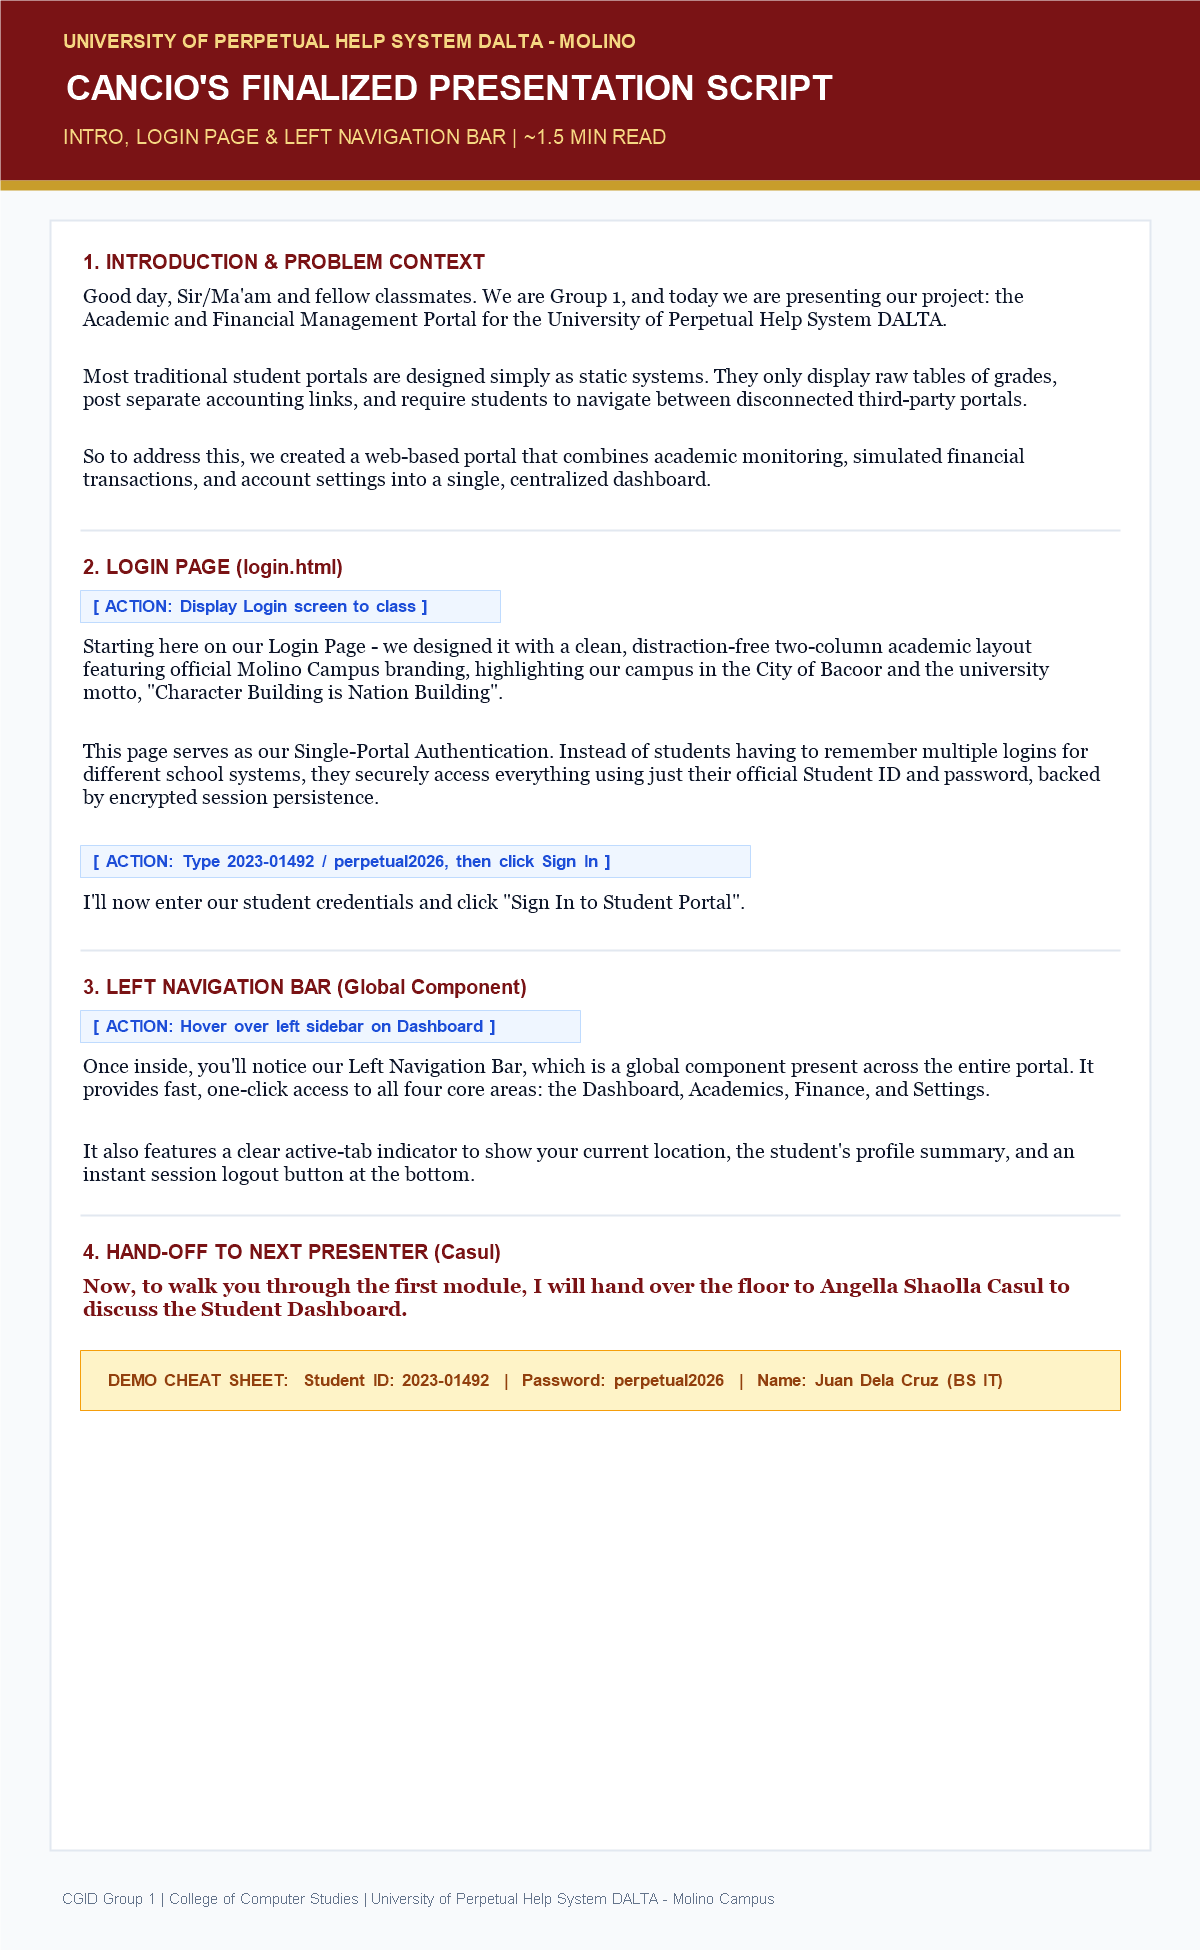
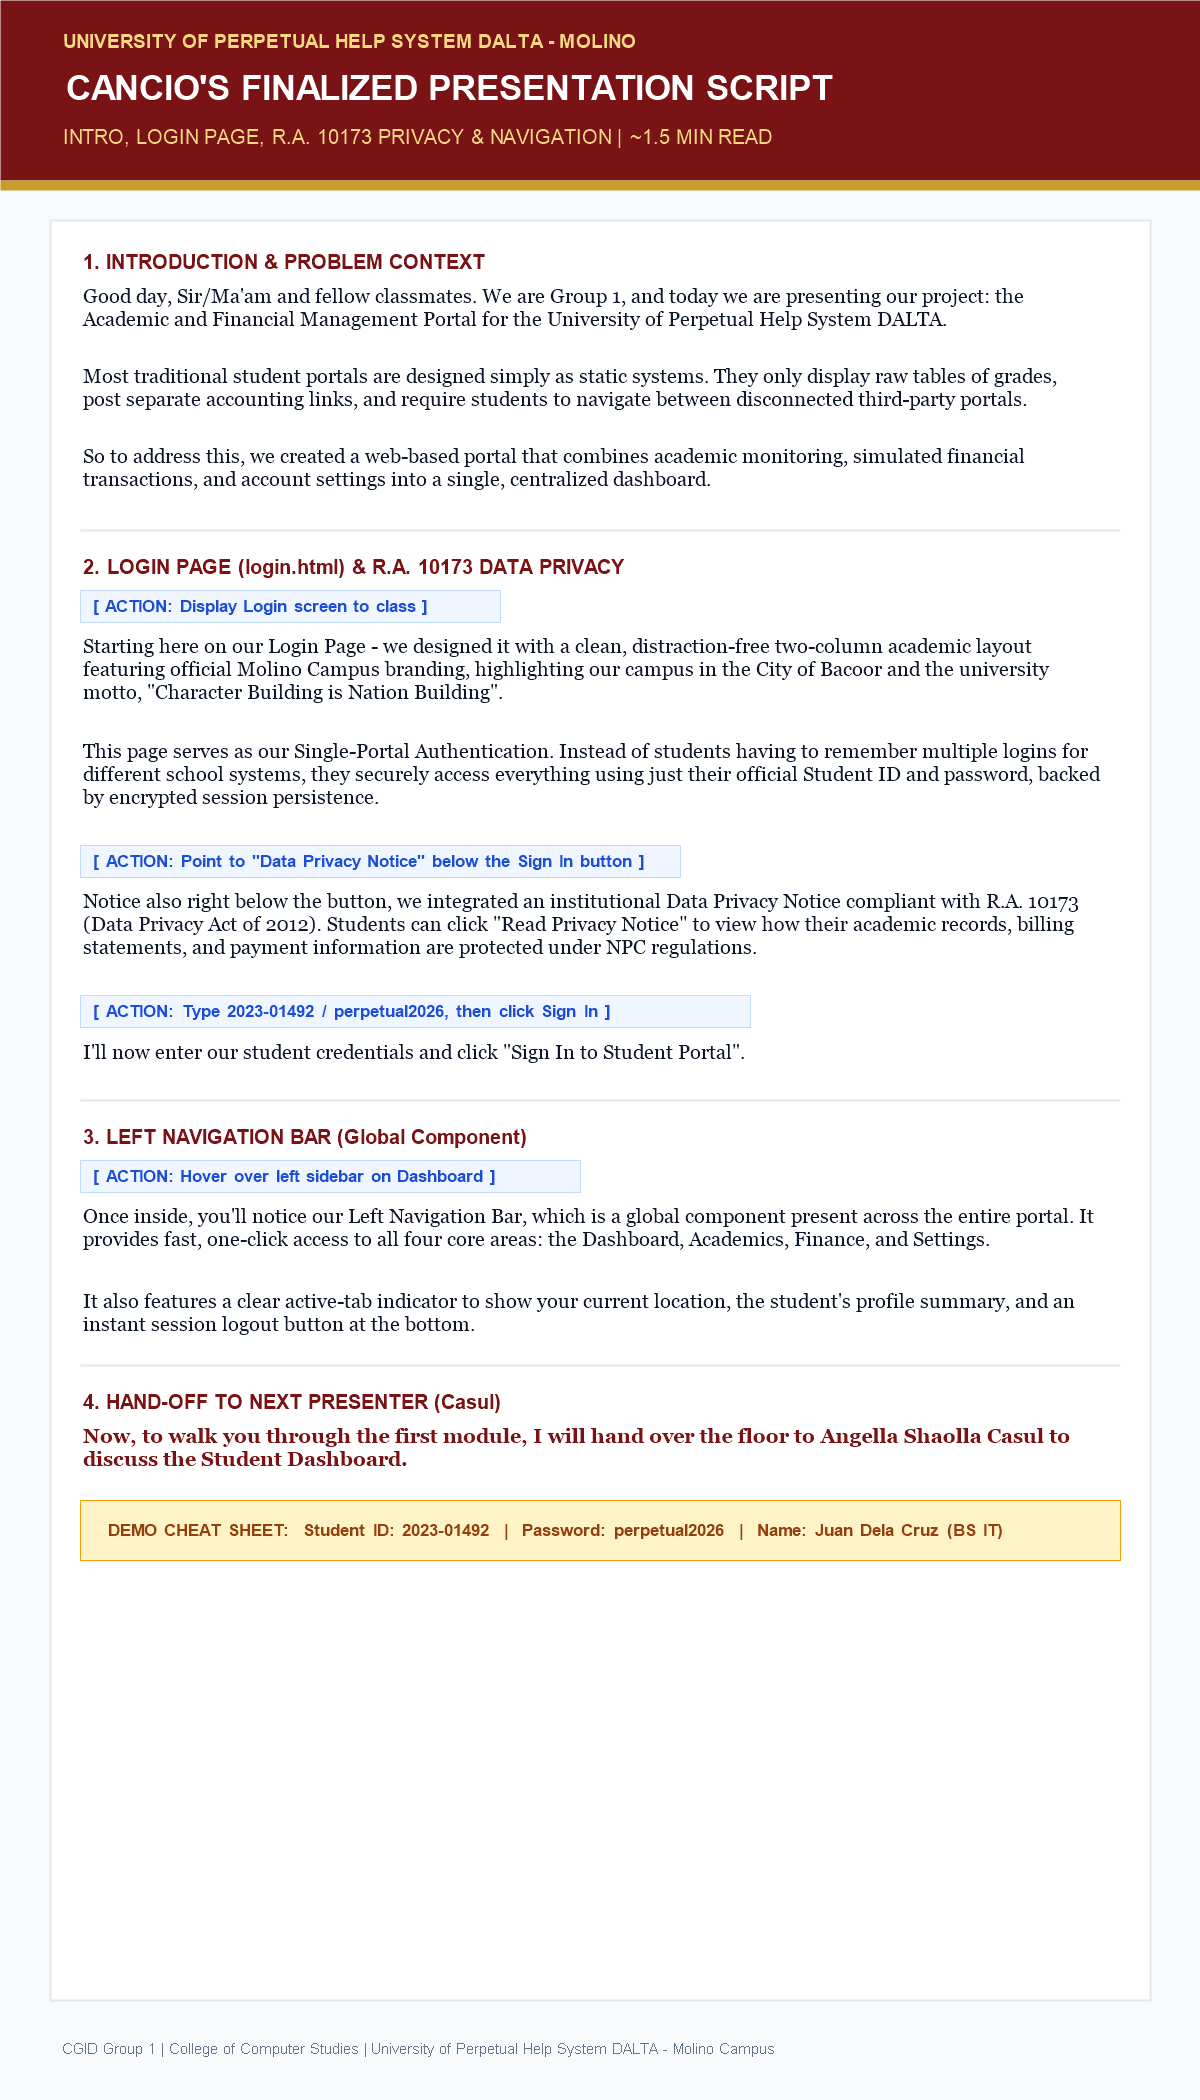
Add Data Privacy Notice (R.A. 10173) to login page and update Cancio cue card image

Changed region(s): [[0.0, 0.0, 1.0, 0.7692], [0.8633, 0.6154, 0.8942, 0.6462]]

diff --git a/login.html b/login.html
@@ -110,6 +110,14 @@
             <span id="btn-submit-text">Sign In to Student Portal →</span>
             <div class="btn-login-spinner" id="btn-submit-spinner"></div>
           </button>
+
+          <!-- Data Privacy Notice (R.A. 10173 Compliance) -->
+          <div class="login-privacy-notice">
+            <svg viewBox="0 0 24 24" width="14" height="14" stroke="currentColor" stroke-width="2" fill="none" stroke-linecap="round" stroke-linejoin="round">
+              <path d="M12 22s8-4 8-10V5l-8-3-8 3v7c0 6 8 10 8 10z"></path>
+            </svg>
+            <span>By signing in, you agree that your academic and financial records are processed in compliance with <strong>R.A. 10173 (Data Privacy Act of 2012)</strong> and the UPHSD Privacy Policy. <a href="javascript:void(0)" id="btn-open-privacy" class="privacy-link">Read Privacy Notice</a></span>
+          </div>
         </form>
 
       </div>
@@ -135,6 +143,49 @@
         </ul>
         <button class="btn btn-primary" id="btn-modal-dismiss" style="width: 100%; justify-content: center;">
           Understood, Continue
+        </button>
+      </div>
+    </div>
+  </div>
+
+  <!-- ==========================================
+       Data Privacy Notice Modal (R.A. 10173)
+       ========================================== -->
+  <div class="login-modal-overlay" id="privacy-modal">
+    <div class="login-modal-box" style="max-width: 500px;">
+      <div class="modal-header-row">
+        <div style="display: flex; align-items: center; gap: 8px;">
+          <svg width="18" height="18" viewBox="0 0 24 24" fill="none" stroke="#7A1315" stroke-width="2" stroke-linecap="round" stroke-linejoin="round">
+            <path d="M12 22s8-4 8-10V5l-8-3-8 3v7c0 6 8 10 8 10z"></path>
+          </svg>
+          <h3 style="margin: 0; font-size: 16px;">Institutional Data Privacy Notice</h3>
+        </div>
+        <button class="btn-modal-close" id="btn-close-privacy">&times;</button>
+      </div>
+      <div class="modal-body-content" style="max-height: 65vh; overflow-y: auto; padding-right: 4px;">
+        <p style="background: #F8FAFC; padding: 8px 12px; border-left: 3px solid #7A1315; border-radius: 4px; font-size: 12px; margin-bottom: 12px;">
+          <strong>Compliance Statement:</strong> In adherence to <strong>Republic Act No. 10173 (Data Privacy Act of 2012)</strong> and the National Privacy Commission (NPC), the University of Perpetual Help System DALTA – Molino Campus is committed to protecting your personal data privacy.
+        </p>
+        <p><strong>1. Scope of Information Processed:</strong></p>
+        <ul style="margin: 4px 0 10px 20px; font-size: 12px;">
+          <li>Student Profile (Full Name, Student ID, Institutional Email)</li>
+          <li>Academic Performance (Course units, grades, attendance, curriculum standing)</li>
+          <li>Financial Ledgers (Tuition billing statements, payment channels, transaction IDs)</li>
+        </ul>
+        <p><strong>2. Institutional Purpose:</strong></p>
+        <p style="font-size: 12px; margin-bottom: 10px;">
+          Collected records are processed exclusively for official academic evaluation, semester enrollment verification, cashierless tuition settlement, and RFID student smart card authorization.
+        </p>
+        <p><strong>3. Data Confidentiality & Security:</strong></p>
+        <p style="font-size: 12px; margin-bottom: 10px;">
+          All sensitive transactions are encrypted and stored within verified session scopes. No personal educational information is shared with unauthorized third parties or commercial entities.
+        </p>
+        <p><strong>4. Student Rights:</strong></p>
+        <p style="font-size: 12px; margin-bottom: 14px;">
+          Students have the right to access, inspect, and request correction of inaccurate institutional records through the Campus Registrar and Data Protection Office.
+        </p>
+        <button class="btn btn-primary" id="btn-privacy-dismiss" style="width: 100%; justify-content: center;">
+          I Understand & Agree
         </button>
       </div>
     </div>
@@ -252,6 +303,28 @@
       helpModal.addEventListener('click', (e) => {
         if (e.target === helpModal) closeModal();
       });
+
+      // 8. Data Privacy Modal Controls (R.A. 10173)
+      const privacyModal = document.getElementById('privacy-modal');
+      const openPrivacyBtn = document.getElementById('btn-open-privacy');
+      const closePrivacyBtn = document.getElementById('btn-close-privacy');
+      const dismissPrivacyBtn = document.getElementById('btn-privacy-dismiss');
+
+      if (openPrivacyBtn && privacyModal) {
+        openPrivacyBtn.addEventListener('click', () => {
+          privacyModal.classList.add('show');
+        });
+
+        const closePrivacy = () => {
+          privacyModal.classList.remove('show');
+        };
+
+        if (closePrivacyBtn) closePrivacyBtn.addEventListener('click', closePrivacy);
+        if (dismissPrivacyBtn) dismissPrivacyBtn.addEventListener('click', closePrivacy);
+        privacyModal.addEventListener('click', (e) => {
+          if (e.target === privacyModal) closePrivacy();
+        });
+      }
     });
   </script>
 </body>

diff --git a/style.css b/style.css
@@ -1426,6 +1426,36 @@ body {
   margin-bottom: 16px;
 }
 
+/* Login Data Privacy Notice (R.A. 10173) */
+.login-privacy-notice {
+  margin-top: 14px;
+  display: flex;
+  align-items: flex-start;
+  gap: 8px;
+  font-size: 11px;
+  line-height: 1.5;
+  color: var(--text-muted);
+  text-align: left;
+}
+
+.login-privacy-notice svg {
+  flex-shrink: 0;
+  margin-top: 2px;
+  color: var(--primary);
+}
+
+.privacy-link {
+  color: var(--primary);
+  font-weight: 600;
+  text-decoration: underline;
+  cursor: pointer;
+  transition: opacity 0.2s ease;
+}
+
+.privacy-link:hover {
+  opacity: 0.8;
+}
+
 /* Responsive adjustments for Login Screen */
 @media (max-width: 960px) {
   .login-container {
